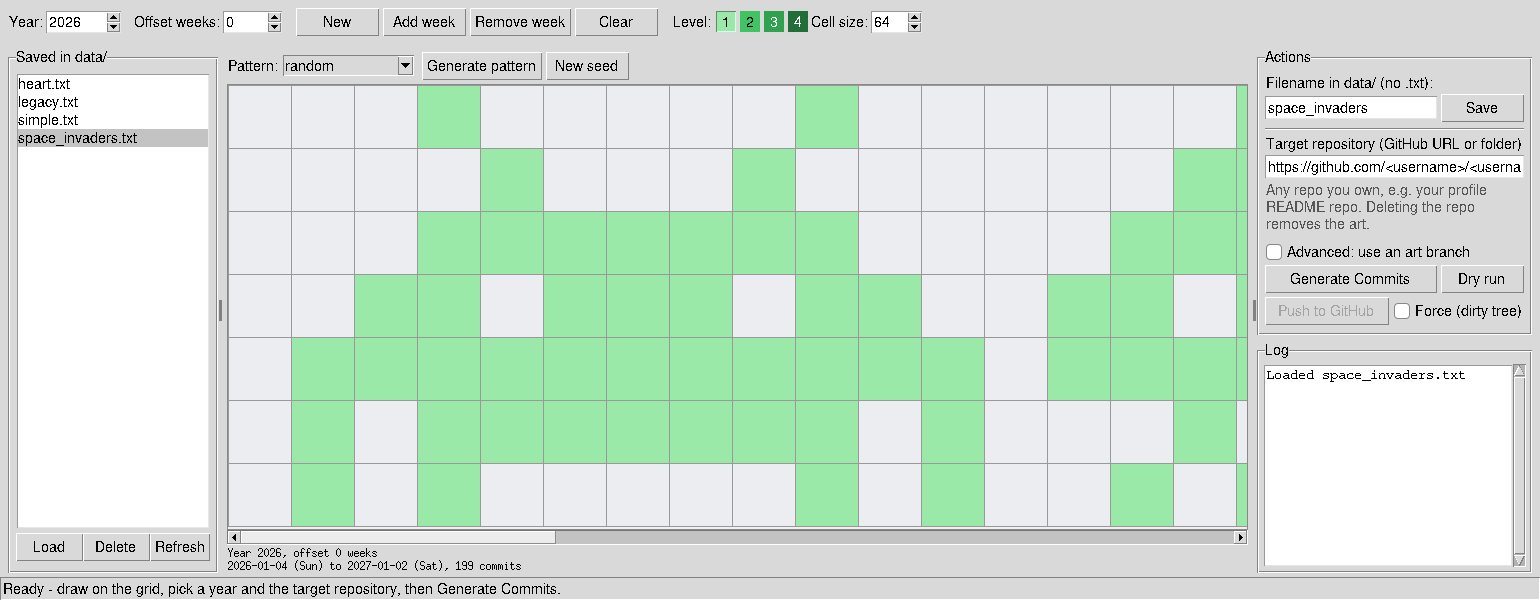
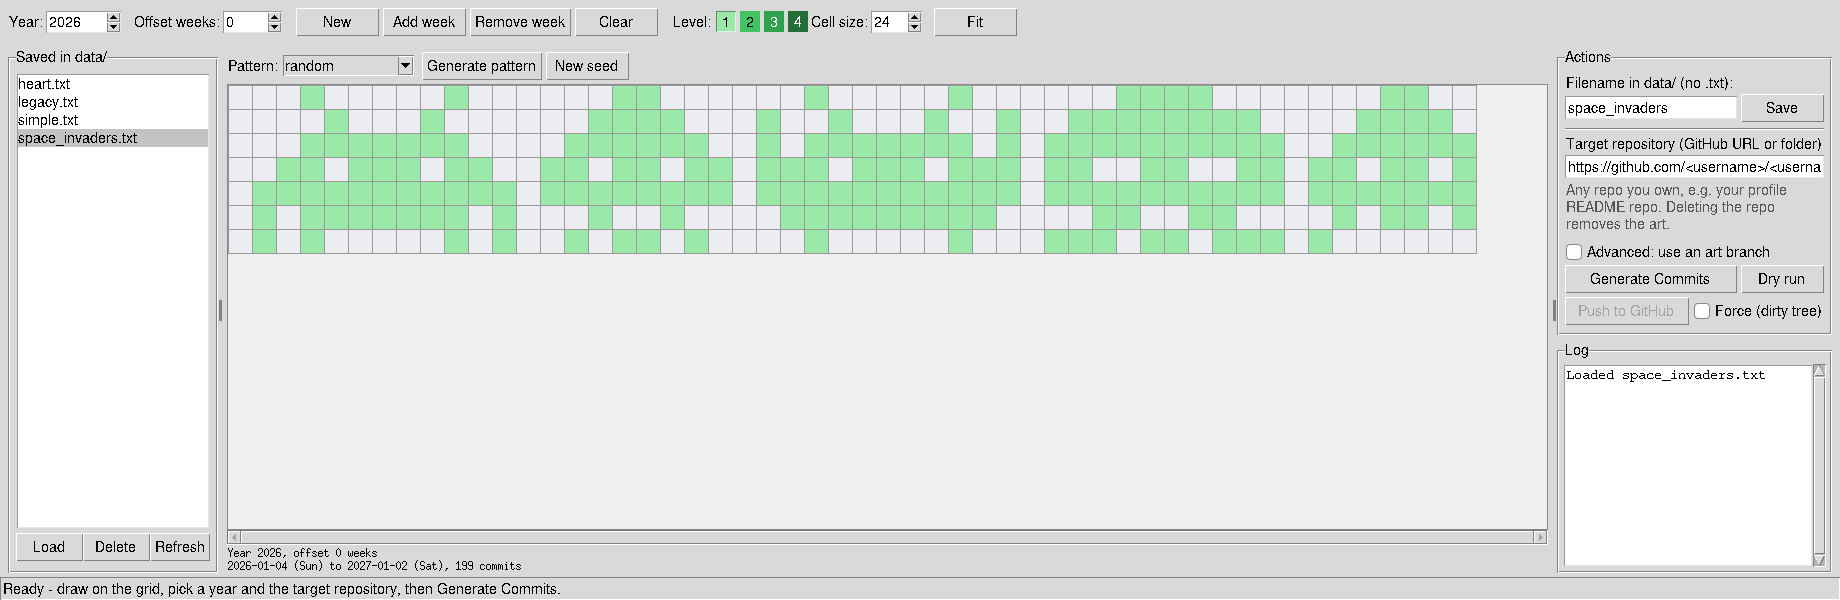
Fit the year of weeks into the GUI canvas width
Fit mode is now the default: square cells are sized so at least 53
weeks (or the grid columns plus the week offset, if larger) stay on
screen, and they are recomputed when the window resizes. The Cell size
spinbox still zooms by hand until Fit is pressed again. The default
window is 1840x600 so those cells are larger, while still fitting a
1920x1080 screen.

diff --git a/src/github_pixel_artworks/gui.py b/src/github_pixel_artworks/gui.py
@@ -37,6 +37,7 @@ from .config import (
     EDITOR_PANE_MIN_WIDTH,
     GENERATE_BUTTON_TEXT,
     GRID_BACKGROUND,
+    GRID_YEAR_WEEKS,
     HINT_COLOR,
     HINT_PADDING,
     LEVEL_COLORS,
@@ -78,6 +79,8 @@ class PixelArtGUI:
         self._pattern_seed: int | None = None
         self._hints: list[ttk.Label] = []
         self._panes_placed = False
+        self._fit_to_width = True
+        self._syncing_cell_size = False
         self._log_queue: queue.Queue[str] = queue.Queue()
         self._ui_queue: queue.Queue[Callable[[], object]] = queue.Queue()
         self._detected_users: queue.Queue[tuple[str, str]] = queue.Queue()
@@ -87,7 +90,7 @@ class PixelArtGUI:
         self._build_panes()
         self._build_status_bar()
 
-        self.cell_size_var.trace_add("write", lambda *_args: self._redraw())
+        self.cell_size_var.trace_add("write", self._on_cell_size_edited)
         self._redraw()
         self._populate_drawings_list()
         self._suggest_art_branch()
@@ -101,7 +104,7 @@ class PixelArtGUI:
 
     @property
     def cell_size(self) -> int:
-        """Side of one cell, in pixels, after fitting seven rows on the canvas."""
+        """Side of one (square) cell, in pixels."""
         return self._display_cell_size()
 
     # Layout ----------------------------------------------------------------
@@ -148,8 +151,9 @@ class PixelArtGUI:
             MIN_CELL_SIZE,
             MAX_CELL_SIZE,
             width=3,
-            command=self._redraw,
+            command=self._on_cell_size_command,
         )
+        ttk.Button(bar, text="Fit", command=self._fit_to_canvas).pack(side=tk.LEFT, padx=(0, 8))
 
     def _add_spinbox(
         self,
@@ -408,12 +412,29 @@ class PixelArtGUI:
     # Grid editing ----------------------------------------------------------
 
     def _on_canvas_configure(self, _event: tk.Event) -> None:
-        """Redraw when a resize changes the cell size that still fits seven rows."""
+        """Refit or redraw when a resize changes the cell size."""
+        if self._fit_to_width:
+            self._sync_fit_cell_size()
         if self.cell_size != getattr(self, "_drawn_cell_size", None):
             self._redraw()
 
+    def _weeks_to_fit(self) -> int:
+        """Week columns Fit mode sizes the cells for: a year, or more if needed."""
+        try:
+            offset = int(self.offset_var.get())
+        except tk.TclError, TypeError, ValueError:
+            offset = 0
+        return max(GRID_YEAR_WEEKS, self.columns + max(0, offset))
+
+    def _fit_cell_size(self) -> int:
+        """Largest square cell that keeps every week column on the canvas."""
+        width = self.canvas.winfo_width() if hasattr(self, "canvas") else 0
+        if width <= 1:
+            return CELL_SIZE
+        return max(MIN_CELL_SIZE, min(MAX_CELL_SIZE, (width - 2) // self._weeks_to_fit()))
+
     def _chosen_cell_size(self) -> int:
-        """Return the cell size chosen in the toolbar, clamped to the allowed range."""
+        """Return the cell size shown in the toolbar, clamped to the allowed range."""
         try:
             value = int(self.cell_size_var.get())
         except tk.TclError, TypeError, ValueError:
@@ -421,18 +442,50 @@ class PixelArtGUI:
         return max(MIN_CELL_SIZE, min(MAX_CELL_SIZE, value))
 
     def _display_cell_size(self) -> int:
-        """Return the chosen size, shrunk if needed so seven rows fit on the canvas."""
-        chosen = self._chosen_cell_size()
+        """Return the Fit or manual size, capped so seven square rows stay visible."""
+        size = self._fit_cell_size() if self._fit_to_width else self._chosen_cell_size()
         height = self.canvas.winfo_height() if hasattr(self, "canvas") else 0
         if height > 1:
-            fitted = max(MIN_CELL_SIZE, (height - 2) // DAYS_PER_WEEK)
-            return min(chosen, fitted)
-        return chosen
+            fitted_height = max(MIN_CELL_SIZE, (height - 2) // DAYS_PER_WEEK)
+            return min(size, fitted_height)
+        return size
+
+    def _on_cell_size_command(self) -> None:
+        """Leave Fit mode when the spinbox arrows change the value."""
+        self._on_cell_size_edited()
+
+    def _on_cell_size_edited(self, *_args: object) -> None:
+        """A manual cell-size change overrides Fit until Fit is pressed again."""
+        if self._syncing_cell_size:
+            return
+        self._fit_to_width = False
+        self._redraw()
+
+    def _fit_to_canvas(self) -> None:
+        """Size cells so every week column is visible, and keep doing so on resize."""
+        self._fit_to_width = True
+        self._sync_fit_cell_size()
+        self._redraw()
+
+    def _sync_fit_cell_size(self) -> None:
+        """Update the spinbox to the fitted size without treating it as a manual zoom."""
+        if not self._fit_to_width or not hasattr(self, "canvas"):
+            return
+        size = self._fit_cell_size()
+        if self._chosen_cell_size() == size:
+            return
+        self._syncing_cell_size = True
+        try:
+            self.cell_size_var.set(size)
+        finally:
+            self._syncing_cell_size = False
 
     def _redraw(self) -> None:
         """Repaint every cell and refresh the schedule summary."""
         if not hasattr(self, "canvas"):
             return
+        if self._fit_to_width:
+            self._sync_fit_cell_size()
         size = self.cell_size
         self._drawn_cell_size = size
         self.canvas.delete("all")
@@ -502,7 +555,11 @@ class PixelArtGUI:
     # Schedule (year / offset) ----------------------------------------------
 
     def _on_schedule_changed(self) -> None:
-        self._update_schedule_label()
+        if self._fit_to_width:
+            self._sync_fit_cell_size()
+            self._redraw()
+        else:
+            self._update_schedule_label()
         self._suggest_art_branch()
 
     def _update_schedule_label(self) -> None:

diff --git a/tests/test_gui.py b/tests/test_gui.py
@@ -18,11 +18,14 @@ import pytest
 from github_pixel_artworks import gui
 from github_pixel_artworks.config import (
     ACTIONS_PANE_MIN_WIDTH,
+    DAYS_PER_WEEK,
     DRAWINGS_PANE_MIN_WIDTH,
     EDITOR_PANE_MIN_WIDTH,
     EMPTY_COLOR,
     GENERATE_BUTTON_TEXT,
+    GRID_YEAR_WEEKS,
     LEVEL_COLORS,
+    MAX_CELL_SIZE,
     MAX_WEEKS,
     MIN_CELL_SIZE,
     PATTERN_TETRIS,
@@ -324,41 +327,77 @@ class TestLayout:
         assert pane_widths(window)[1] > editor
         assert pane_widths(window)[2] == actions
 
-    def test_the_default_cells_fill_most_of_the_canvas_height(
+    def test_fit_mode_sizes_square_cells_so_a_year_fills_the_canvas_width(
         self, window: gui.PixelArtGUI
     ) -> None:
+        window._resize_grid(MAX_WEEKS)
         resize(window, *WINDOW_SIZE)
 
+        canvas_width = window.canvas.winfo_width()
         canvas_height = window.canvas.winfo_height()
-        grid_height = 7 * window.cell_size
-        assert window.cell_size >= 40
-        assert grid_height >= canvas_height * 0.8
-        assert grid_height <= canvas_height
+        coords = window.canvas.coords("cell_0_0")
+        size = coords[2] - coords[0]
+        assert size == coords[3] - coords[1]
+        assert size == window.cell_size
+        weeks = max(GRID_YEAR_WEEKS, MAX_WEEKS)
+        assert MAX_WEEKS * size <= canvas_width
+        assert abs(size - (canvas_width - 2) // weeks) <= 1
+        assert DAYS_PER_WEEK * size < canvas_height
+        assert window.canvas.xview() == (0.0, 1.0)
+        assert window._fit_to_width
 
-    def test_the_cell_size_control_zooms_the_grid(self, window: gui.PixelArtGUI) -> None:
+    def test_the_cell_size_control_zooms_the_grid_and_leaves_fit_mode(
+        self, window: gui.PixelArtGUI
+    ) -> None:
         resize(window, *WINDOW_SIZE)
         original = window.cell_size
 
         window.cell_size_var.set(MIN_CELL_SIZE)
         settle(window.root)
 
+        assert window._fit_to_width is False
         assert window.cell_size == MIN_CELL_SIZE
         assert window.cell_size < original
         coords = window.canvas.coords("cell_0_0")
         assert coords[2] - coords[0] == MIN_CELL_SIZE
 
-    def test_a_full_year_scrolls_at_the_default_cell_size(self, window: gui.PixelArtGUI) -> None:
+    def test_fit_keeps_a_full_year_visible_when_the_window_resizes(
+        self, window: gui.PixelArtGUI
+    ) -> None:
         window._resize_grid(MAX_WEEKS)
         resize(window, 1600, 900)
+        size_at_1600 = window.cell_size
+        assert window.canvas.xview() == (0.0, 1.0)
 
+        resize(window, *WINDOW_SIZE)
+        assert window._fit_to_width
+        assert window.cell_size > size_at_1600
+        assert window.canvas.xview() == (0.0, 1.0)
+
+    def test_fit_restores_width_fit_after_a_manual_zoom(self, window: gui.PixelArtGUI) -> None:
+        window._resize_grid(MAX_WEEKS)
+        resize(window, *WINDOW_SIZE)
+        window.cell_size_var.set(MAX_CELL_SIZE)
+        settle(window.root)
         assert window.canvas.xview() != (0.0, 1.0)
 
-    def test_shrinking_the_cell_size_can_fit_a_full_year(self, window: gui.PixelArtGUI) -> None:
-        window._resize_grid(MAX_WEEKS)
-        resize(window, 1600, 900)
-        window.cell_size_var.set(MIN_CELL_SIZE)
+        window._fit_to_canvas()
         settle(window.root)
 
+        assert window._fit_to_width
+        assert window.canvas.xview() == (0.0, 1.0)
+
+    def test_fit_accounts_for_offset_and_added_weeks(self, window: gui.PixelArtGUI) -> None:
+        window._resize_grid(MAX_WEEKS)
+        resize(window, *WINDOW_SIZE)
+        size_for_a_year = window.cell_size
+
+        window.offset_var.set(20)
+        window._on_schedule_changed()
+        settle(window.root)
+
+        assert window._weeks_to_fit() == MAX_WEEKS + 20
+        assert window.cell_size < size_for_a_year
         assert window.canvas.xview() == (0.0, 1.0)
 
     def test_the_default_window_fits_a_1080p_screen(self) -> None:

diff --git a/src/github_pixel_artworks/config.py b/src/github_pixel_artworks/config.py
@@ -433,15 +433,16 @@ EXIT_BAD_ARGUMENT = 5
 
 # GUI -------------------------------------------------------------------------
 
-CELL_SIZE = 64
-"""Default side of one grid cell, in pixels.
-
-At WINDOW_SIZE this fills most of the editor canvas height (seven rows). A
-53-week year is wider than that canvas, so the grid scrolls horizontally. The
-toolbar cell-size control zooms in or out between MIN_CELL_SIZE and MAX_CELL_SIZE.
-"""
+CELL_SIZE = 24
+"""Fallback cell size in pixels, used only before the canvas has a real width."""
 MIN_CELL_SIZE = 12
 MAX_CELL_SIZE = 80
+GRID_YEAR_WEEKS = 53
+"""Week columns the default Fit zoom tries to show: a typical GitHub year.
+
+Fit uses the larger of this and the current grid columns plus the week offset,
+so added weeks and a non-zero offset still stay on screen when there is room.
+"""
 GRID_BACKGROUND = "#f0f0f0"
 CELL_OUTLINE = "#999"
 CANVAS_BORDER = "#888"
@@ -451,8 +452,12 @@ DARK_LEVEL_TEXT_FROM = 3
 DEFAULT_COLUMNS = 10
 MIN_COLUMNS = 3
 
-WINDOW_SIZE = (1540, 600)
-"""Preferred first size: wide enough for a full year of weeks next to both side panes."""
+WINDOW_SIZE = (1840, 600)
+"""Preferred first size: as wide as a 1920x1080 screen allows after the margin.
+
+A wider window makes Fit mode cells larger while a 53-week year still stays
+on screen next to both side panes.
+"""
 WINDOW_SCREEN_MARGIN = 80
 """Pixels left free on each axis when the screen is smaller than WINDOW_SIZE."""
 WINDOW_MIN_SIZE = (720, 400)

diff --git a/scripts/capture_gui_screenshots.py b/scripts/capture_gui_screenshots.py
@@ -1,6 +1,6 @@
 """Capture images/gui_editor.png, images/gui_levels.png and images/pattern_tetris.png from the real GUI.
 
-Run under a virtual display at least as large as the default window (1540x600)
+Run under a virtual display at least as large as the default window (1840x600)
 plus the screen margin, for example:
 
     xvfb-run -a -s "-screen 0 1920x1080x24" uv run python scripts/capture_gui_screenshots.py

diff --git a/COVERAGE.md b/COVERAGE.md
@@ -4,11 +4,11 @@
 | src/github\_pixel\_artworks/art\_repo.py    |      123 |        1 |     99% |
 | src/github\_pixel\_artworks/artwork.py      |       58 |        0 |    100% |
 | src/github\_pixel\_artworks/cli.py          |      139 |        6 |     96% |
-| src/github\_pixel\_artworks/config.py       |      186 |        0 |    100% |
+| src/github\_pixel\_artworks/config.py       |      188 |        0 |    100% |
 | src/github\_pixel\_artworks/dates.py        |       15 |        0 |    100% |
 | src/github\_pixel\_artworks/github.py       |       95 |        0 |    100% |
-| src/github\_pixel\_artworks/gui.py          |      447 |       45 |     90% |
+| src/github\_pixel\_artworks/gui.py          |      489 |       50 |     90% |
 | src/github\_pixel\_artworks/identity.py     |       34 |        2 |     94% |
 | src/github\_pixel\_artworks/painter.py      |      216 |        8 |     96% |
 | src/github\_pixel\_artworks/patterns.py     |      430 |       23 |     95% |
-| **TOTAL**                                   | **1754** |   **87** | **95%** |
+| **TOTAL**                                   | **1798** |   **92** | **95%** |
